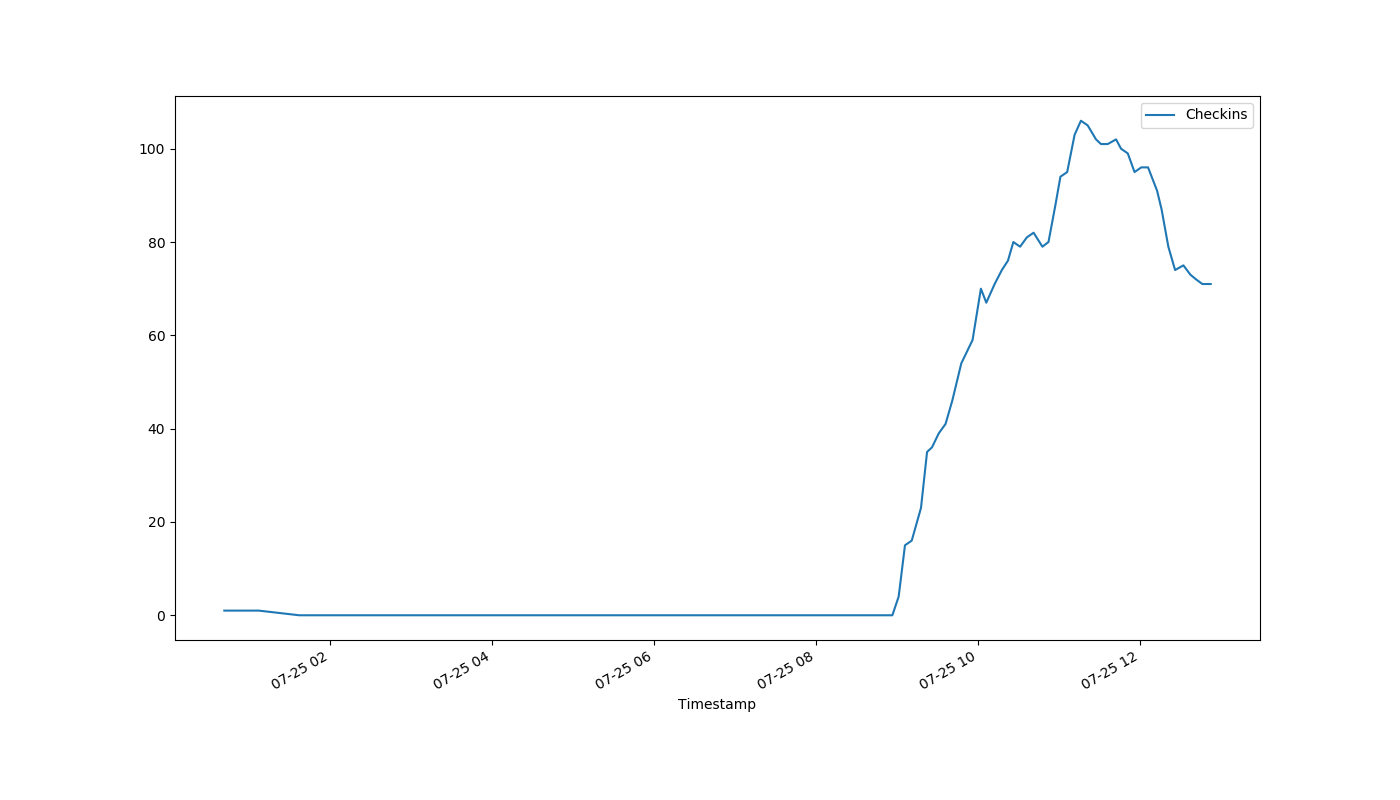
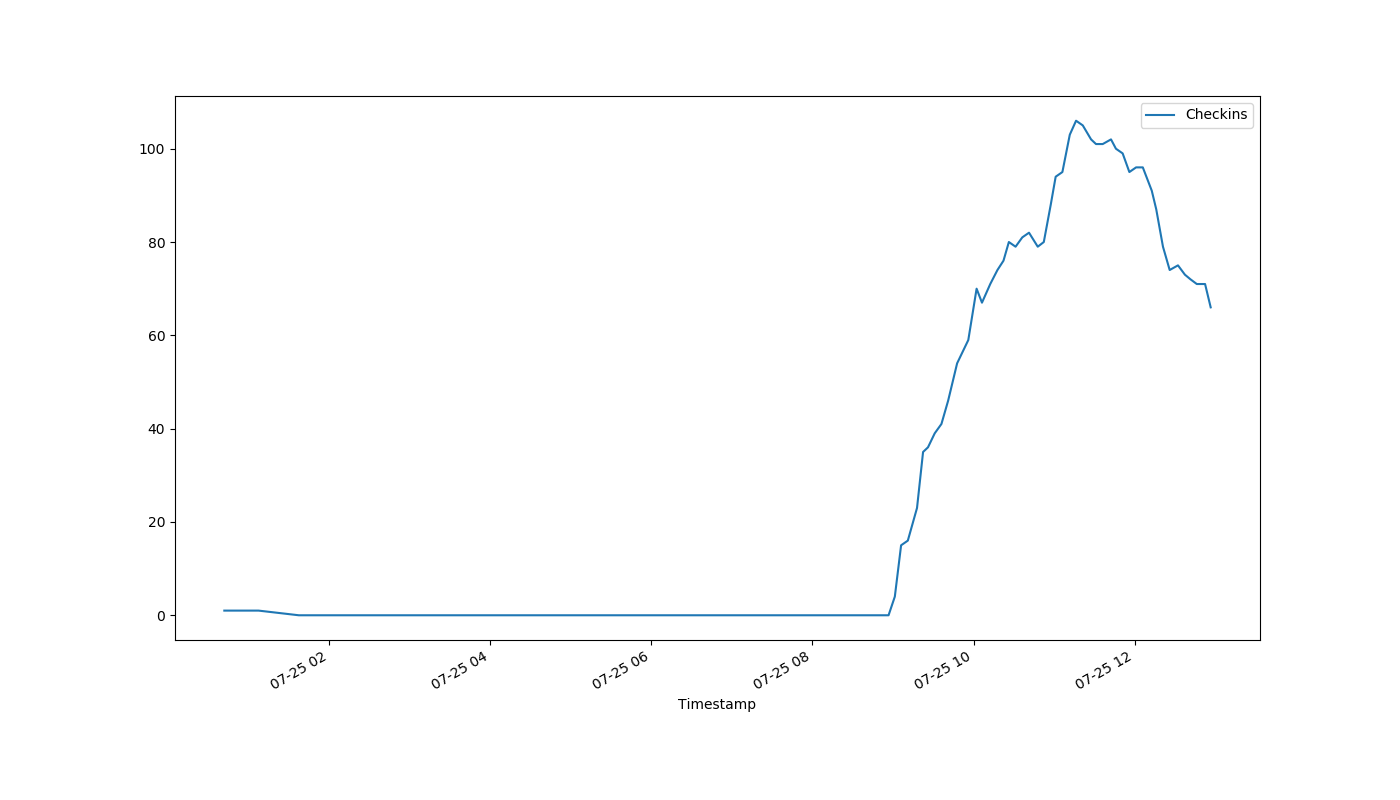
auto-Jul-25-12:57:20

diff --git a/index.html b/index.html
@@ -1,1 +1,1 @@
-<!DOCTYPE html><html><head><meta http-equiv="refresh" content="30"><link rel='stylesheet' href='holmcurrent.css'></head><body><p id='count'>71</p><div id='graph-wrap'><img id='graph' src='holmgraph-Jul-25.png'></div><p id='updated'>Last updated 12:53:01 / 12:52:25</p></body></html>
+<!DOCTYPE html><html><head><meta http-equiv="refresh" content="30"><link rel='stylesheet' href='holmcurrent.css'></head><body><p id='count'>66</p><div id='graph-wrap'><img id='graph' src='holmgraph-Jul-25.png'></div><p id='updated'>Last updated 12:57:01 / 12:56:36</p></body></html>
